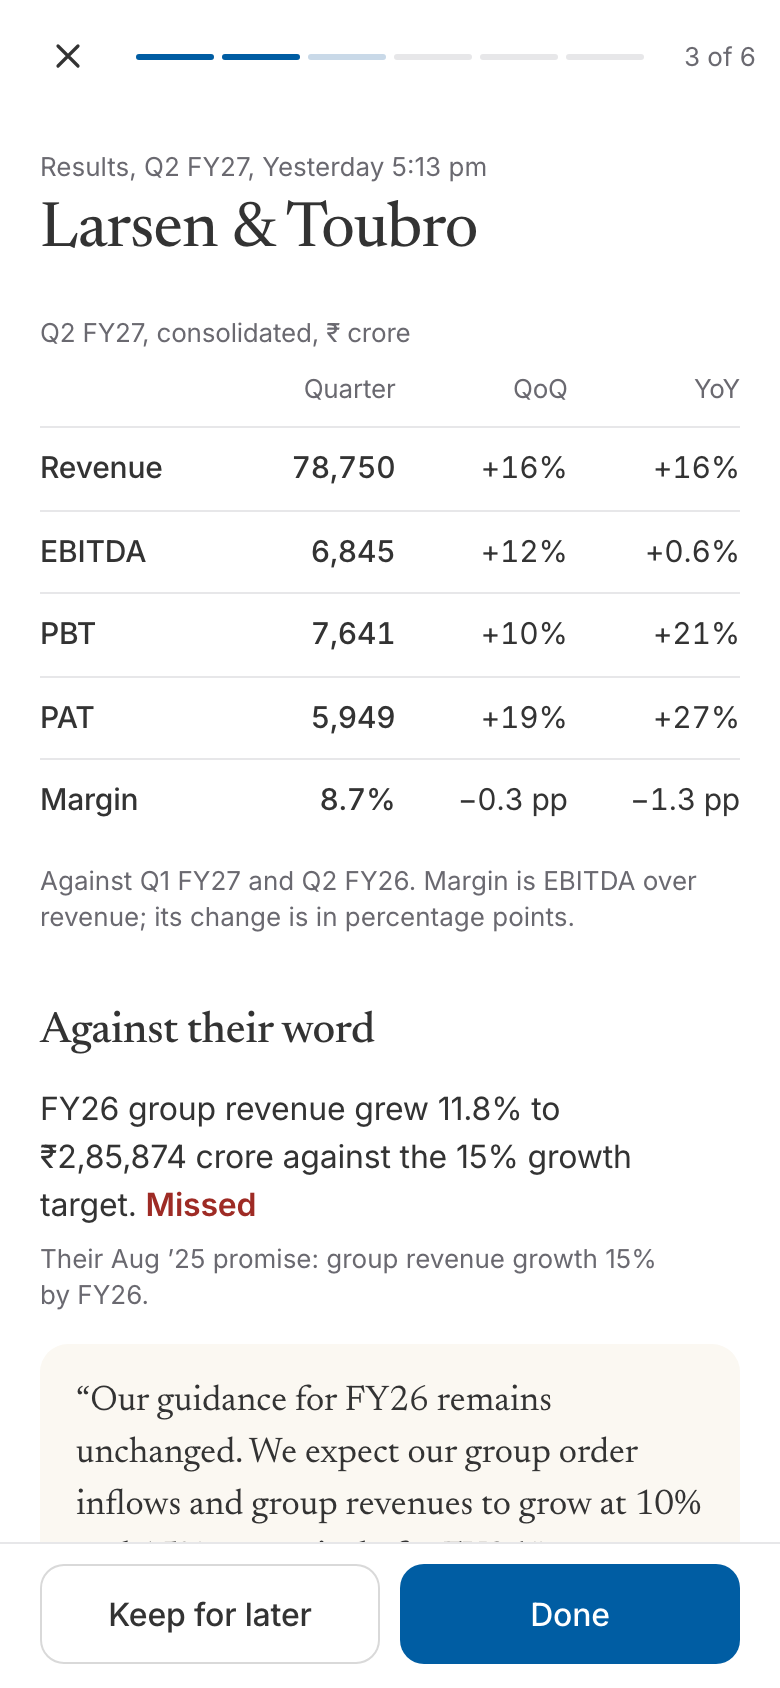
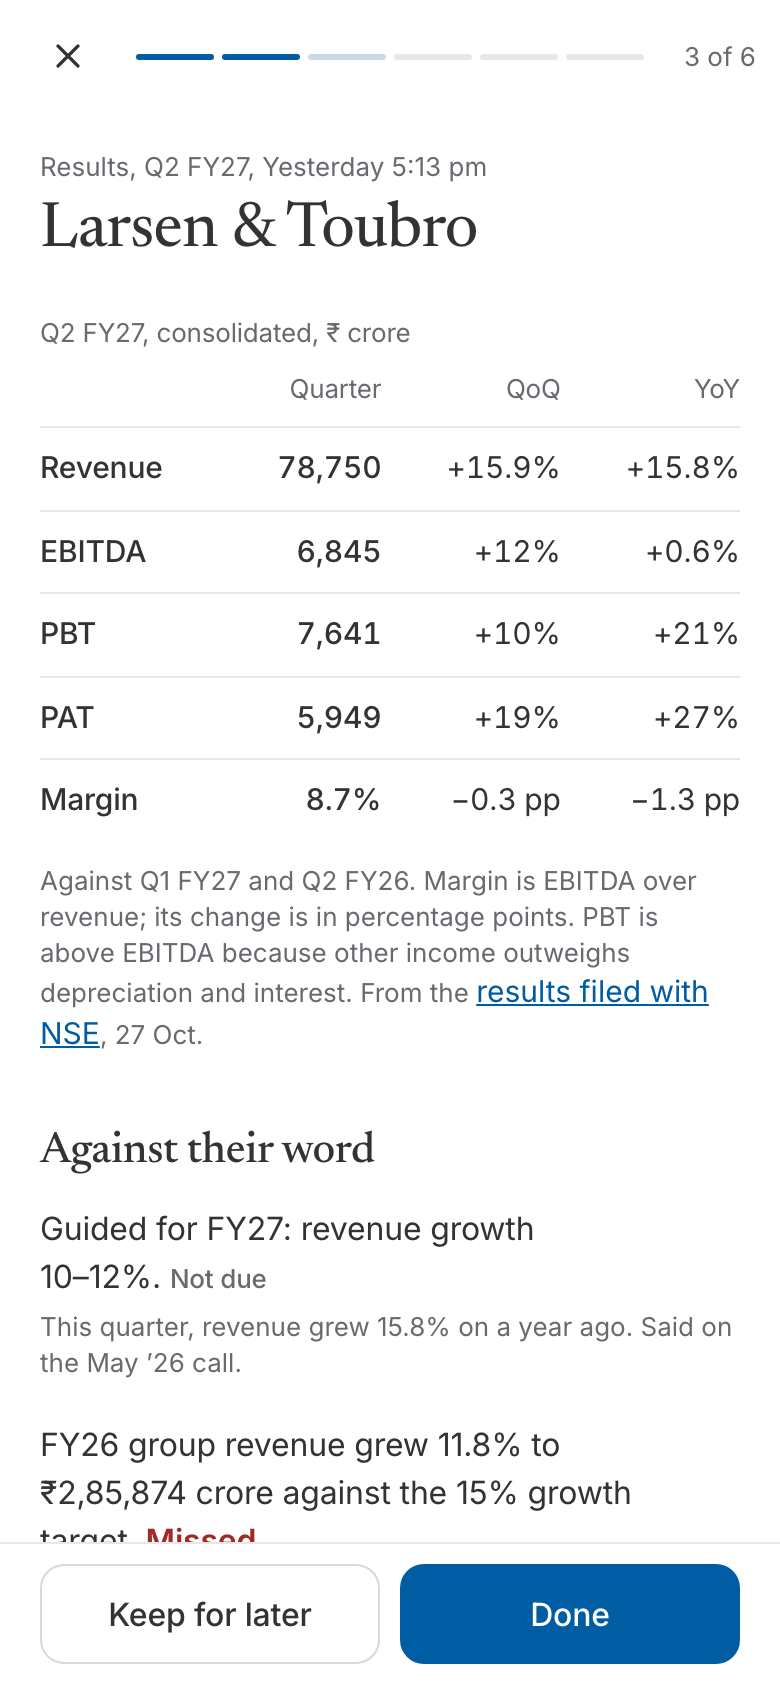
Document guidance line in walkthrough

diff --git a/docs/PROGRESS.md b/docs/PROGRESS.md
@@ -1,4 +1,4 @@
-Next: 31 Oct, stage 4 polish on the live app. Retake the README results shot (docs/img/results.png from compare.py shot 3) now that the table has the filed-results link and the guidance line; re-run detect.mjs and slop_scan on UI copy added today (Ask 'Outside your book', guidance line, PBT note, All quiet link); then the walkthrough beat 3 wording (Against their word now opens on FY27 guidance).
+Next: 31 Oct, stage 4 polish on the live app. Covering note 'What I built' paragraph 2 should mention this year's guidance next to the quarter (docs/COVERING_NOTE.md); BRIEF_TRACE row 40 (Guidance) and R13 now also met in the reader. Then look at Book at 320 and the company page's lower folds (numbers, for and against) for anything that reads weak.
 
 ## Stage 4 (31 Oct)
 - [x] docs/BRIEF_TRACE.md: both PDFs line by line
@@ -20,6 +20,7 @@ Next: 31 Oct, stage 4 polish on the live app. Retake the README results shot (do
 - [x] Boot skeleton in the brief's shape (pill, head, flat rows). Company files: one request per company at a time (the reader fetched each three times) and one retry on a dropped connection; an intermittent live failure of 'held against their word' is gone (flows 31/31, three runs on next, two on live) (31 Oct)
 - [x] L&T grade corrected by hand (31 Oct): the Hyderabad Metro handover promise was graded partly kept on Nabha Power evidence; now can't tell with a 'corrected' note; the same mistake removed from L&T's summary, a question and a bear point; grade review 17/20 (README, evals, covering note, checklist, DECISIONS). Opened promise rows don't repeat the status word. Live, flows pass
 - [x] Ledger sweep for L&T-style mistakes (31 Oct): 36 settled grades whose evidence shares at most one key word with the promise, read by hand; none other is graded on a different event (TCI #14 is ambiguous about which subsidiary, left as is). Reader: once the name replaces the segments, the bar's lower edge shows progress. Live, flows pass
+- [x] Results table shows decimals when QoQ and YoY round alike (L&T +15.9% / +15.8%). detect.mjs 0 findings, slop_scan passes on today's UI copy. README shots retaken from live (brief, results, Ask); walkthrough beat 3 covers the FY27 guidance line (31 Oct)
 - [x] Section 7 step 4 docs (31 Oct): README (point of view first, new shots from live: brief, results, Ask), DESIGN.md for stage 4, covering note leads with the point of view, walkthrough for the brief flow, BRIEF_TRACE describes the live app. Slop scan passes on all four
   - Round 1 (31 Oct ~04:40 IST), fresh critic, shots only + INVESTOR.md, versions blind as A/B/C. Clean / beauty / clarity / ease / daily / overall: v5 6/7/5/6/6/6; next 7/5/8/9/8/7.5; v4 5/6/4/5/5/5. Next wins cleanliness, clarity, ease, daily and overall but loses beauty to both: not promoted. Weakest three in next: results item leads with the price move, not the numbers and the promise; the alerts read as identical notification clones (brand row, no number in the headline, times out of order); people item hierarchy (bio bigger than names, repeated lede). Also: '2 to read' vs '1 of 3', Kept in link blue reads as tappable, sticky bar has no hairline, Ask has no ready list
   - Round 2 (31 Oct ~06:00 IST), fresh critic, blind. Clean / beauty / clarity / ease / daily / overall: v5 6/7/5/6/5/6; next 7/6/8/8/8/7.5; v4 6/6/5/5/5/5.5. Beauty still below v5: not promoted. Weakest three: results lede repeats the table and pushes the verdict down; CFO with no background reads as a dead end while the director gets a CV; blue 'Your line' on every alert is the loudest text. Also: the empty progress rule looks like a stalled loader, mixed units in the figure column, Ask's empty lower half

diff --git a/README.md b/README.md
@@ -6,7 +6,7 @@ FINN is a phone app for an investor who holds 15 to 20 stocks. Each morning it h
 
 <p>
 <img src="docs/img/brief.png" width="240" alt="The brief: 2 to read, and the two holdings that crossed your lines">
-<img src="docs/img/results.png" width="240" alt="Results in the reader: the four numbers QoQ and YoY, then the promise they settle">
+<img src="docs/img/results.png" width="240" alt="Results in the reader: the four numbers QoQ and YoY, then this year's guidance and last year's promise">
 <img src="docs/img/ask.png" width="240" alt="Ask: did L&T deliver on revenue growth, answered from the call with its page">
 </p>
 
@@ -19,7 +19,7 @@ FINN is a brief you finish. A feed never tells you that you've seen everything, 
 **Brief (push).** Every NSE filing across an 18-stock portfolio, for a window you pick: 24 hours by default, or 3 days, a week, a month. The top says how many things need you ("2 to read") and names them. Under it, **Crossed your lines** lists anything past a line you set (a ±% day, a volume multiple, a kind of filing), with the line printed on it. Tap the line to move it and the brief recounts behind the sheet. Below that come a few one-line notes, and the routine filings folded into a count.
 
 **The reader.** "Read the brief" opens one item per screen, with Done and Keep for later at the bottom where your thumb is. Each kind of item leads with what you'd want first:
-- *Results*: revenue, EBITDA, PBT and PAT against last quarter and a year ago, parsed from the exchange's XBRL, plus the margin. Then **Against their word**: the promise this quarter settles, what was delivered, and the verdict, with management's quote and its page. If a compared quarter carries a tax credit or large exceptional items, one line says so, so a −85% PAT isn't read as a collapse.
+- *Results*: revenue, EBITDA, PBT and PAT against last quarter and a year ago, parsed from the exchange's XBRL, plus the margin. Then **Against their word**: this year's guidance still running, next to this quarter's growth, and the last promise that fell due, with what was delivered, the verdict, and management's quote and its page. If a compared quarter carries a tax credit or large exceptional items, one line says so, so a −85% PAT isn't read as a collapse.
 - *Management changes*: who joins or leaves, and the incoming person's background from the profile the company files. If that filing has none, FINN takes it from the company's earlier filing on the same person and links it. A new CFO interrupts you. A new company secretary doesn't.
 - *Unusual days*: the move, the volume against usual, a month of closes, and the filing that explains it if there is one.
 - Deals, penalties and fund raises sized against the company's annual revenue. Under 0.5%, they drop to a one-line note.

diff --git a/docs/WALKTHROUGH_SCRIPT.md b/docs/WALKTHROUGH_SCRIPT.md
@@ -31,8 +31,9 @@ Tap "Read the brief". Syngene opens on its results table.
 > "Results come as the four numbers, against last quarter and last year. Straight from the exchange's own data file."
 Scroll to "Against their word": Kept.
 > "Then the part I care about. What did they promise, and did they do it."
-Swipe left (or tap Done). Larsen & Toubro opens. Scroll to "Against their word": FY26 revenue grew 11.8% against a 15% target. Missed.
-> "L&T said fifteen percent. They did under twelve. That's their own words, with the page."
+Swipe left (or tap Done). Larsen & Toubro opens. Scroll to "Against their word". First, this year's guidance: 10 to 12% revenue growth, with this quarter at 15.8%. Under it, last year's promise: 15%, and they did 11.8%. Missed.
+> "This year they've guided ten to twelve percent, and this quarter is ahead of it."
+> "Last year they said fifteen. They did under twelve. Their own words, with the page."
 Tap "Did Larsen & Toubro deliver on margins?" under Ask FINN. The answer appears in place.
 > "I can ask right here. The answer only comes from their calls and filings."
 Tap Done. The rest of the window is four one-liners. Tap "Mark all read". "You're up to date."
